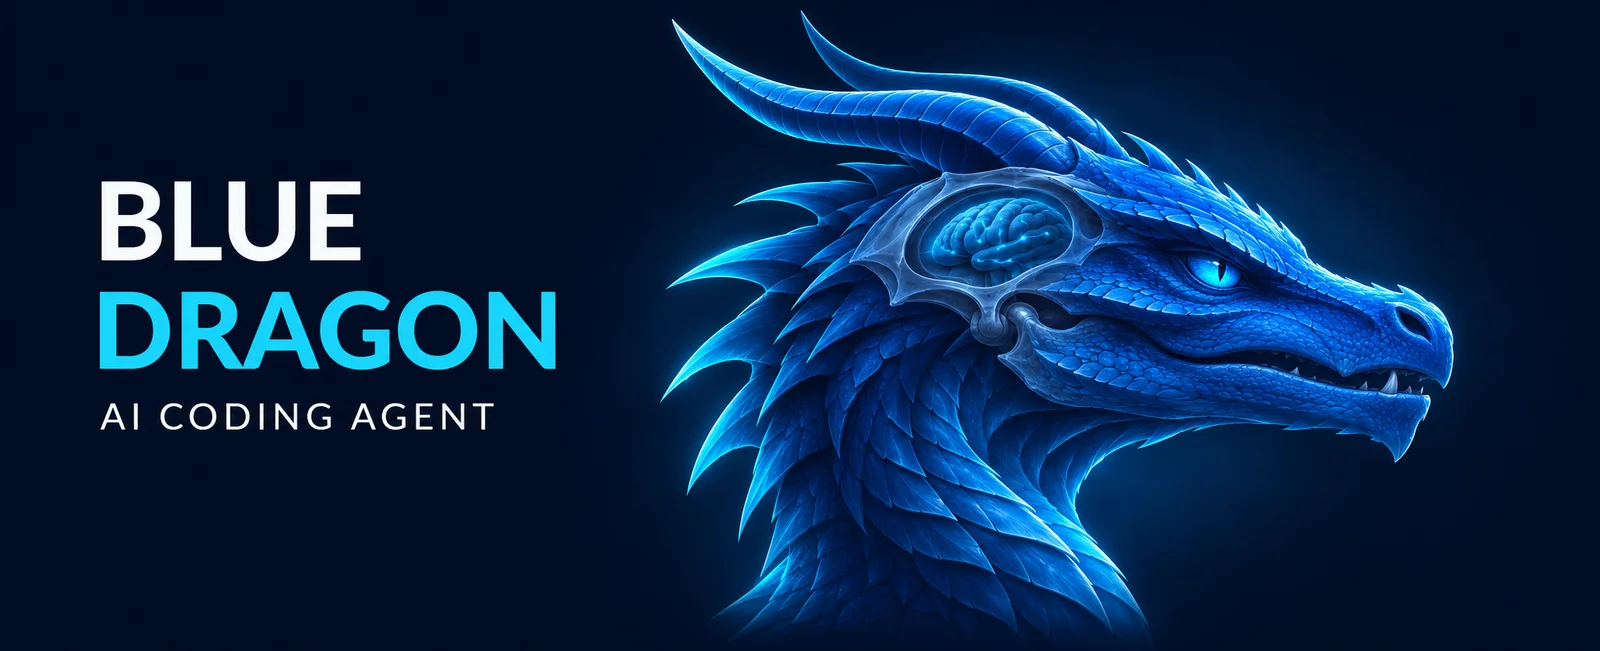
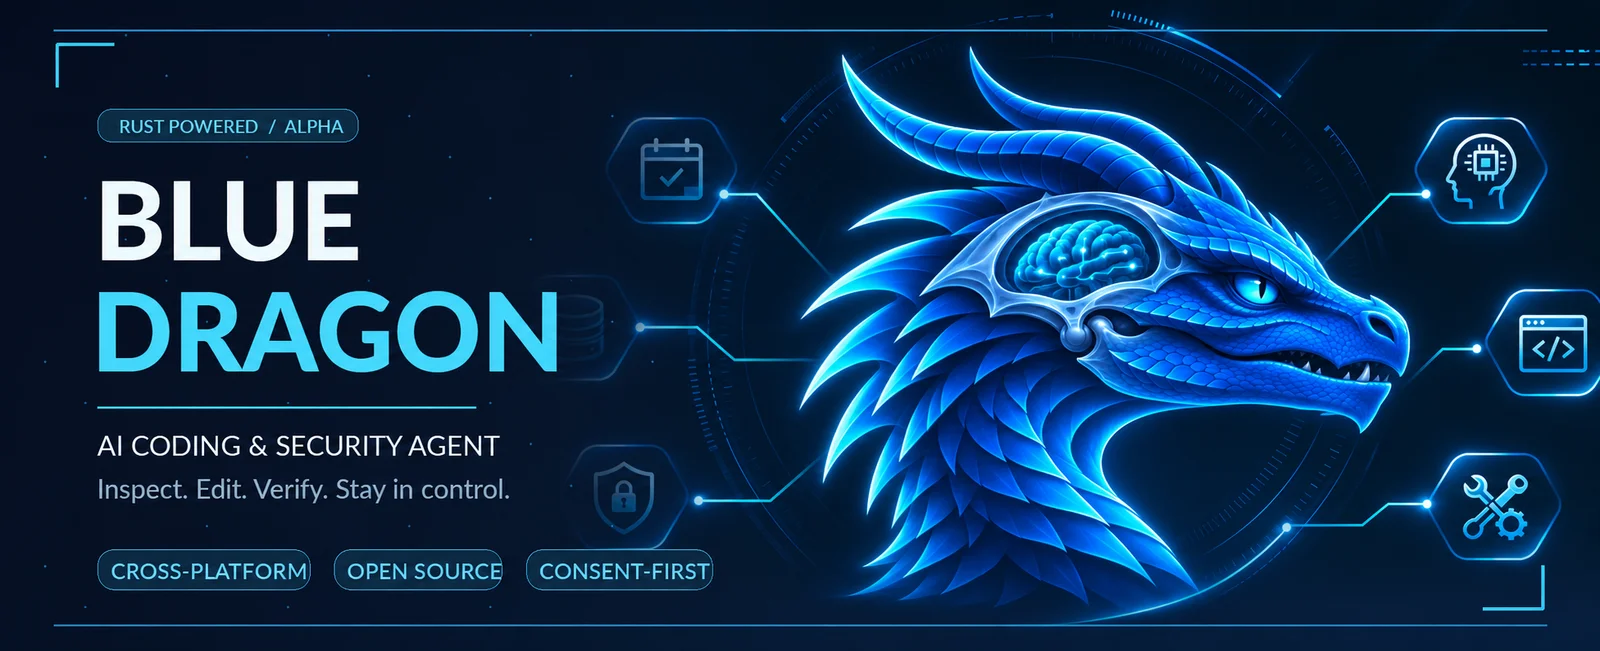
Restore original cyber identity and full neural motion around corrected dragon

diff --git a/docs/VISUAL_IDENTITY.md b/docs/VISUAL_IDENTITY.md
@@ -42,3 +42,6 @@ All README images include alt text. SVG diagrams provide `<title>` and `<desc>`,
 The raster hero and companion mascot were redrawn with the built-in image generator, then exported as WebP. Prompt direction: recognizable right-facing blue dragon; swept-back horns, distinct snout/eye/jaw and narrow scaled neck; a small neural brain fully enclosed in the upper rear cranium, behind the eye and above the jaw hinge. No brain in the throat or neck, no disconnected brain mass. Navy/cyan palette, restrained glow, consistent character.
 
 The generated hero is assets/blue-dragon-hero.webp; the transparent companion is assets/dragon-head.webp. The native workflow and mark SVGs embed an optimized PNG of that companion, replacing the ambiguous abstract crest. No third-party logo or source artwork is used. The SVG geometry/text remain editable; pulse motion is decorative.
+
+## Motion restoration
+The original neural-workflow layout is retained: all six travelling SVG signal animations, rotating orbit, grid, glow filters and original panels. Only the ambiguous central dragon is replaced. The hero retains its original cyber frames, badges, icon connections and typography, with the corrected cranial brain. The previous minimal composition is superseded. Built-in image editing used both the original hero and the corrected dragon as references; surrounding identity was preserved.

diff --git a/README.md b/README.md
@@ -32,7 +32,7 @@
 
 <div align="center">
   <img src="assets/dragon-mind.svg" alt="Illustrated neural workflow: goal, project map, tools, user approval, verification and evidence" width="100%" />
-  <sub>The same dragon identity throughout. Light pulses are decorative; the agent runs in Rust.</sub>
+  <sub>Animated neural workflow: travelling signals, rotating orbit and neural pulses. Motion is decorative; the agent runs in Rust.</sub>
 </div>
 
 Blue Dragon is designed around a simple engineering loop: **understand → act with approval → verify → explain**. Unlike an opaque "autopilot", writes and subprocess commands are presented for explicit user approval. The project is independently authored and is not a fork of AlphaCode.
